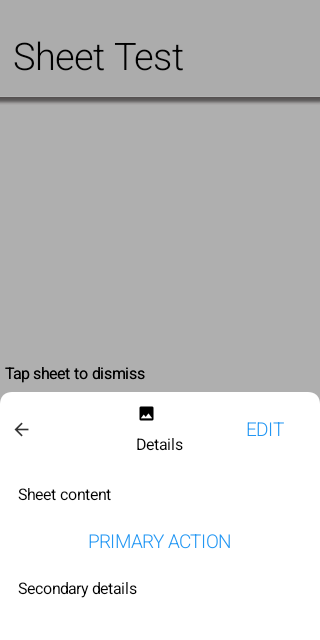
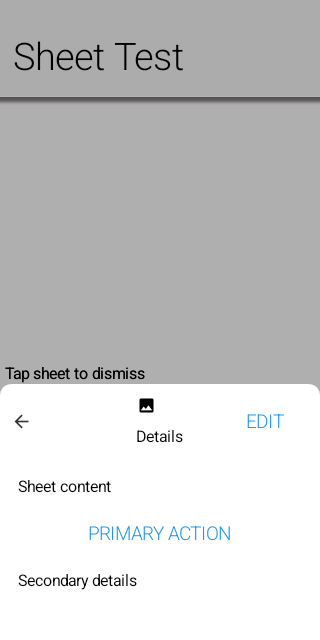
Respect mandatory system gesture insets when computing system bar insets (Android) (#4757)

diff --git a/Ports/Android/src/com/codename1/impl/android/AndroidImplementation.java b/Ports/Android/src/com/codename1/impl/android/AndroidImplementation.java
@@ -1404,6 +1404,26 @@ public class AndroidImplementation extends CodenameOneImplementation implements 
             int top = ((Integer) insetsClass.getField("top").get(insetsObject)).intValue();
             int right = ((Integer) insetsClass.getField("right").get(insetsObject)).intValue();
             int bottom = ((Integer) insetsClass.getField("bottom").get(insetsObject)).intValue();
+            // Include mandatory gesture insets (e.g. gesture navigation handle area).
+            // Some devices expose a larger interaction-protected bottom region here
+            // than in plain system bar insets.
+            try {
+                int mandatoryGesturesMask = ((Integer) typeClass
+                        .getMethod("mandatorySystemGestures")
+                        .invoke(null)).intValue();
+                Object mandatoryInsetsObject = insets.getClass()
+                        .getMethod("getInsets", new Class[]{int.class})
+                        .invoke(insets, new Object[]{mandatoryGesturesMask});
+                if (mandatoryInsetsObject != null) {
+                    Class mandatoryInsetsClass = mandatoryInsetsObject.getClass();
+                    left = Math.max(left, ((Integer) mandatoryInsetsClass.getField("left").get(mandatoryInsetsObject)).intValue());
+                    top = Math.max(top, ((Integer) mandatoryInsetsClass.getField("top").get(mandatoryInsetsObject)).intValue());
+                    right = Math.max(right, ((Integer) mandatoryInsetsClass.getField("right").get(mandatoryInsetsObject)).intValue());
+                    bottom = Math.max(bottom, ((Integer) mandatoryInsetsClass.getField("bottom").get(mandatoryInsetsObject)).intValue());
+                }
+            } catch (Throwable t) {
+                // Ignore if mandatory gesture insets are unavailable.
+            }
             result.set(left, top, right, bottom);
         } catch (Throwable t) {
             t.printStackTrace();  // Optional: log this or suppress if expected
